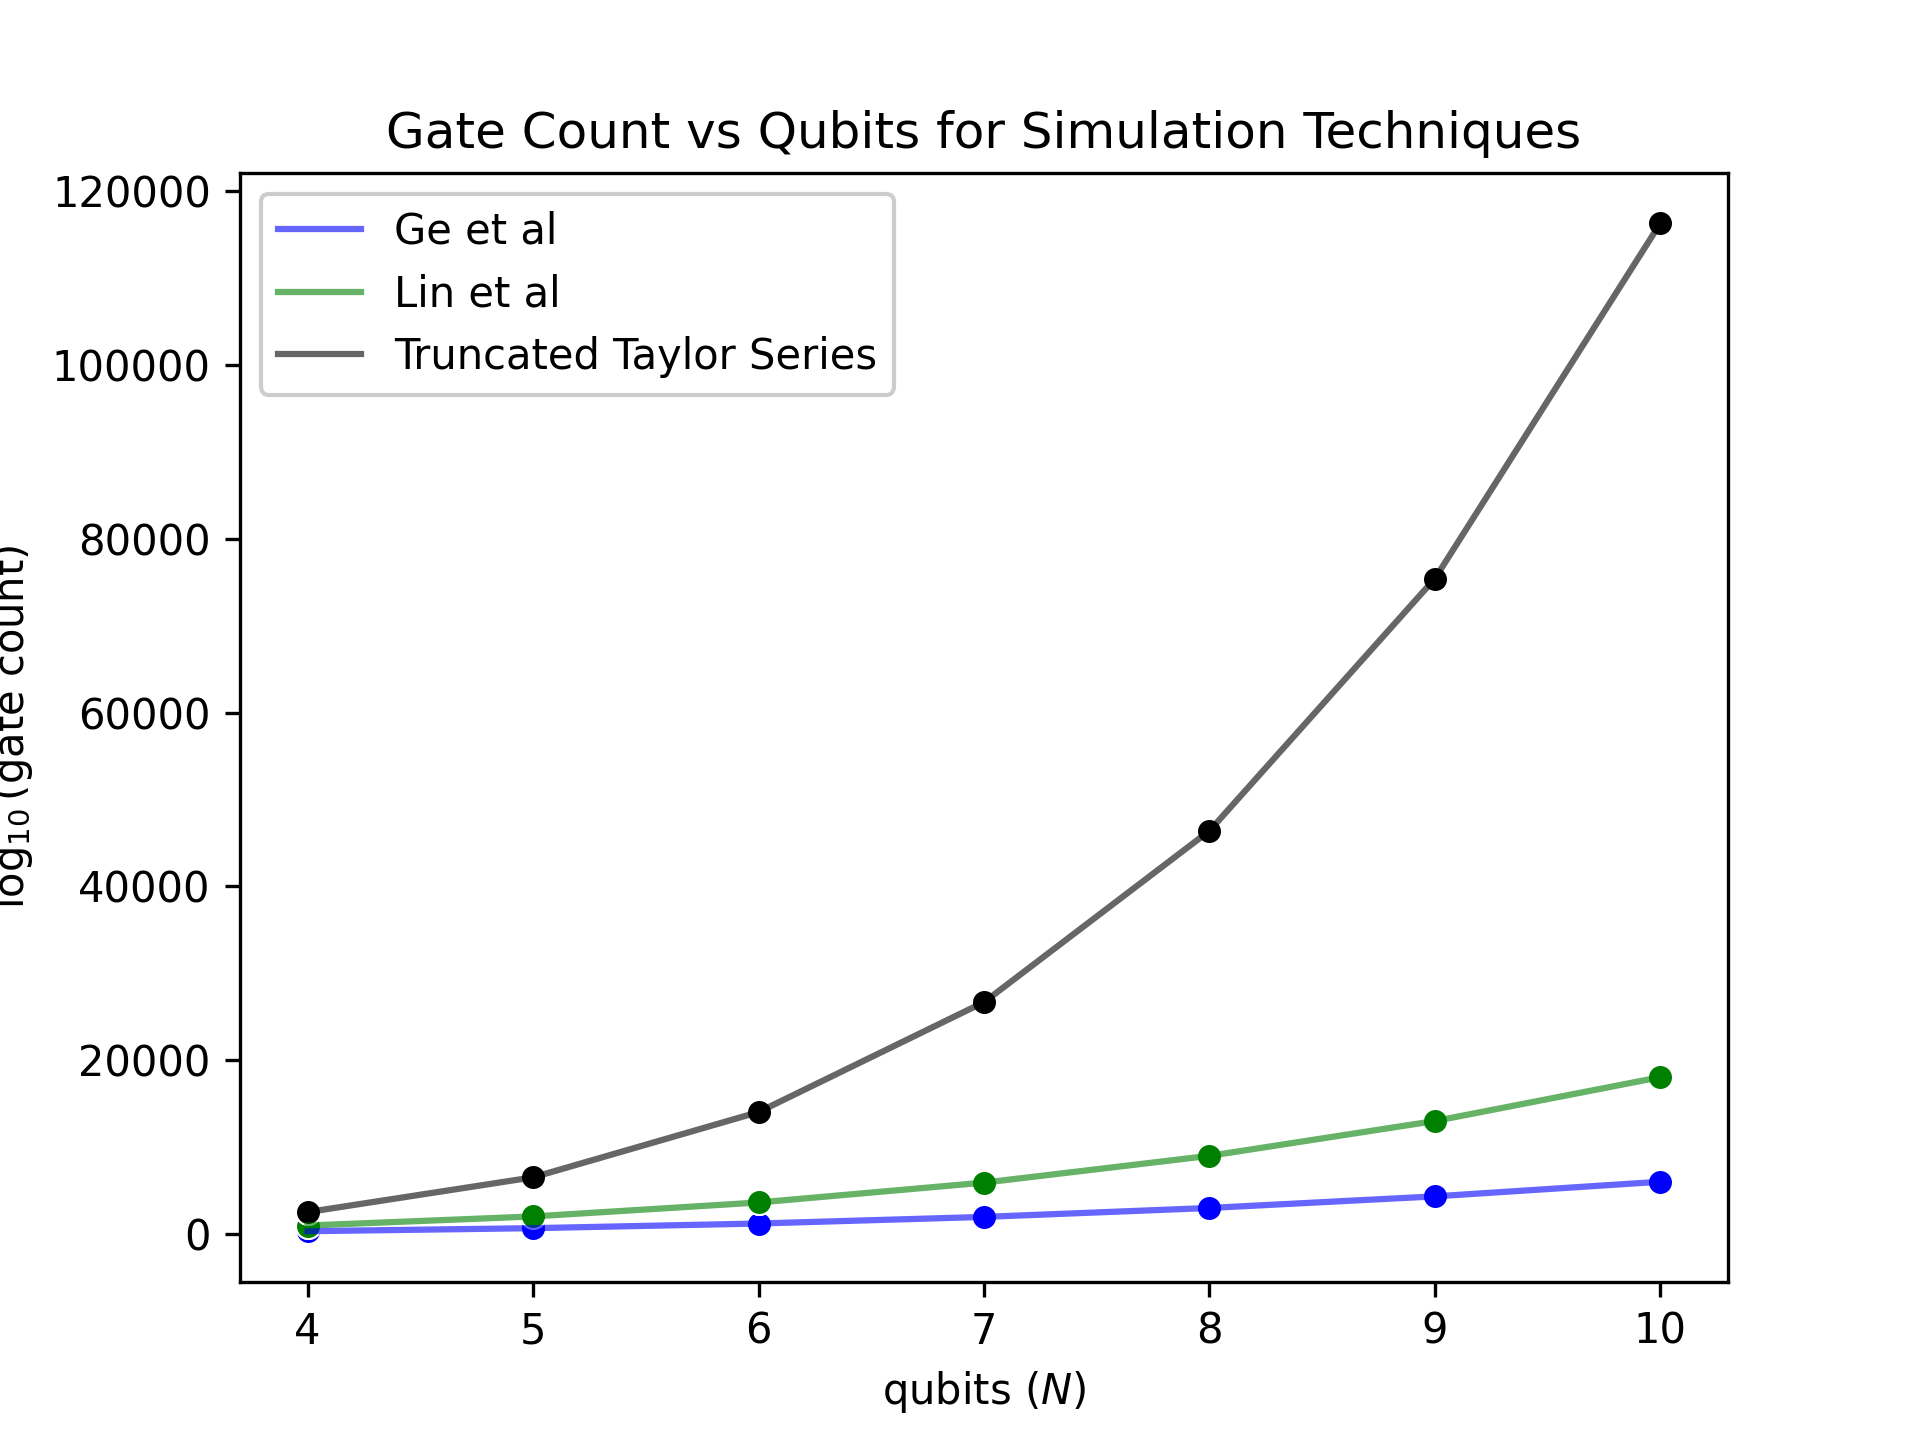
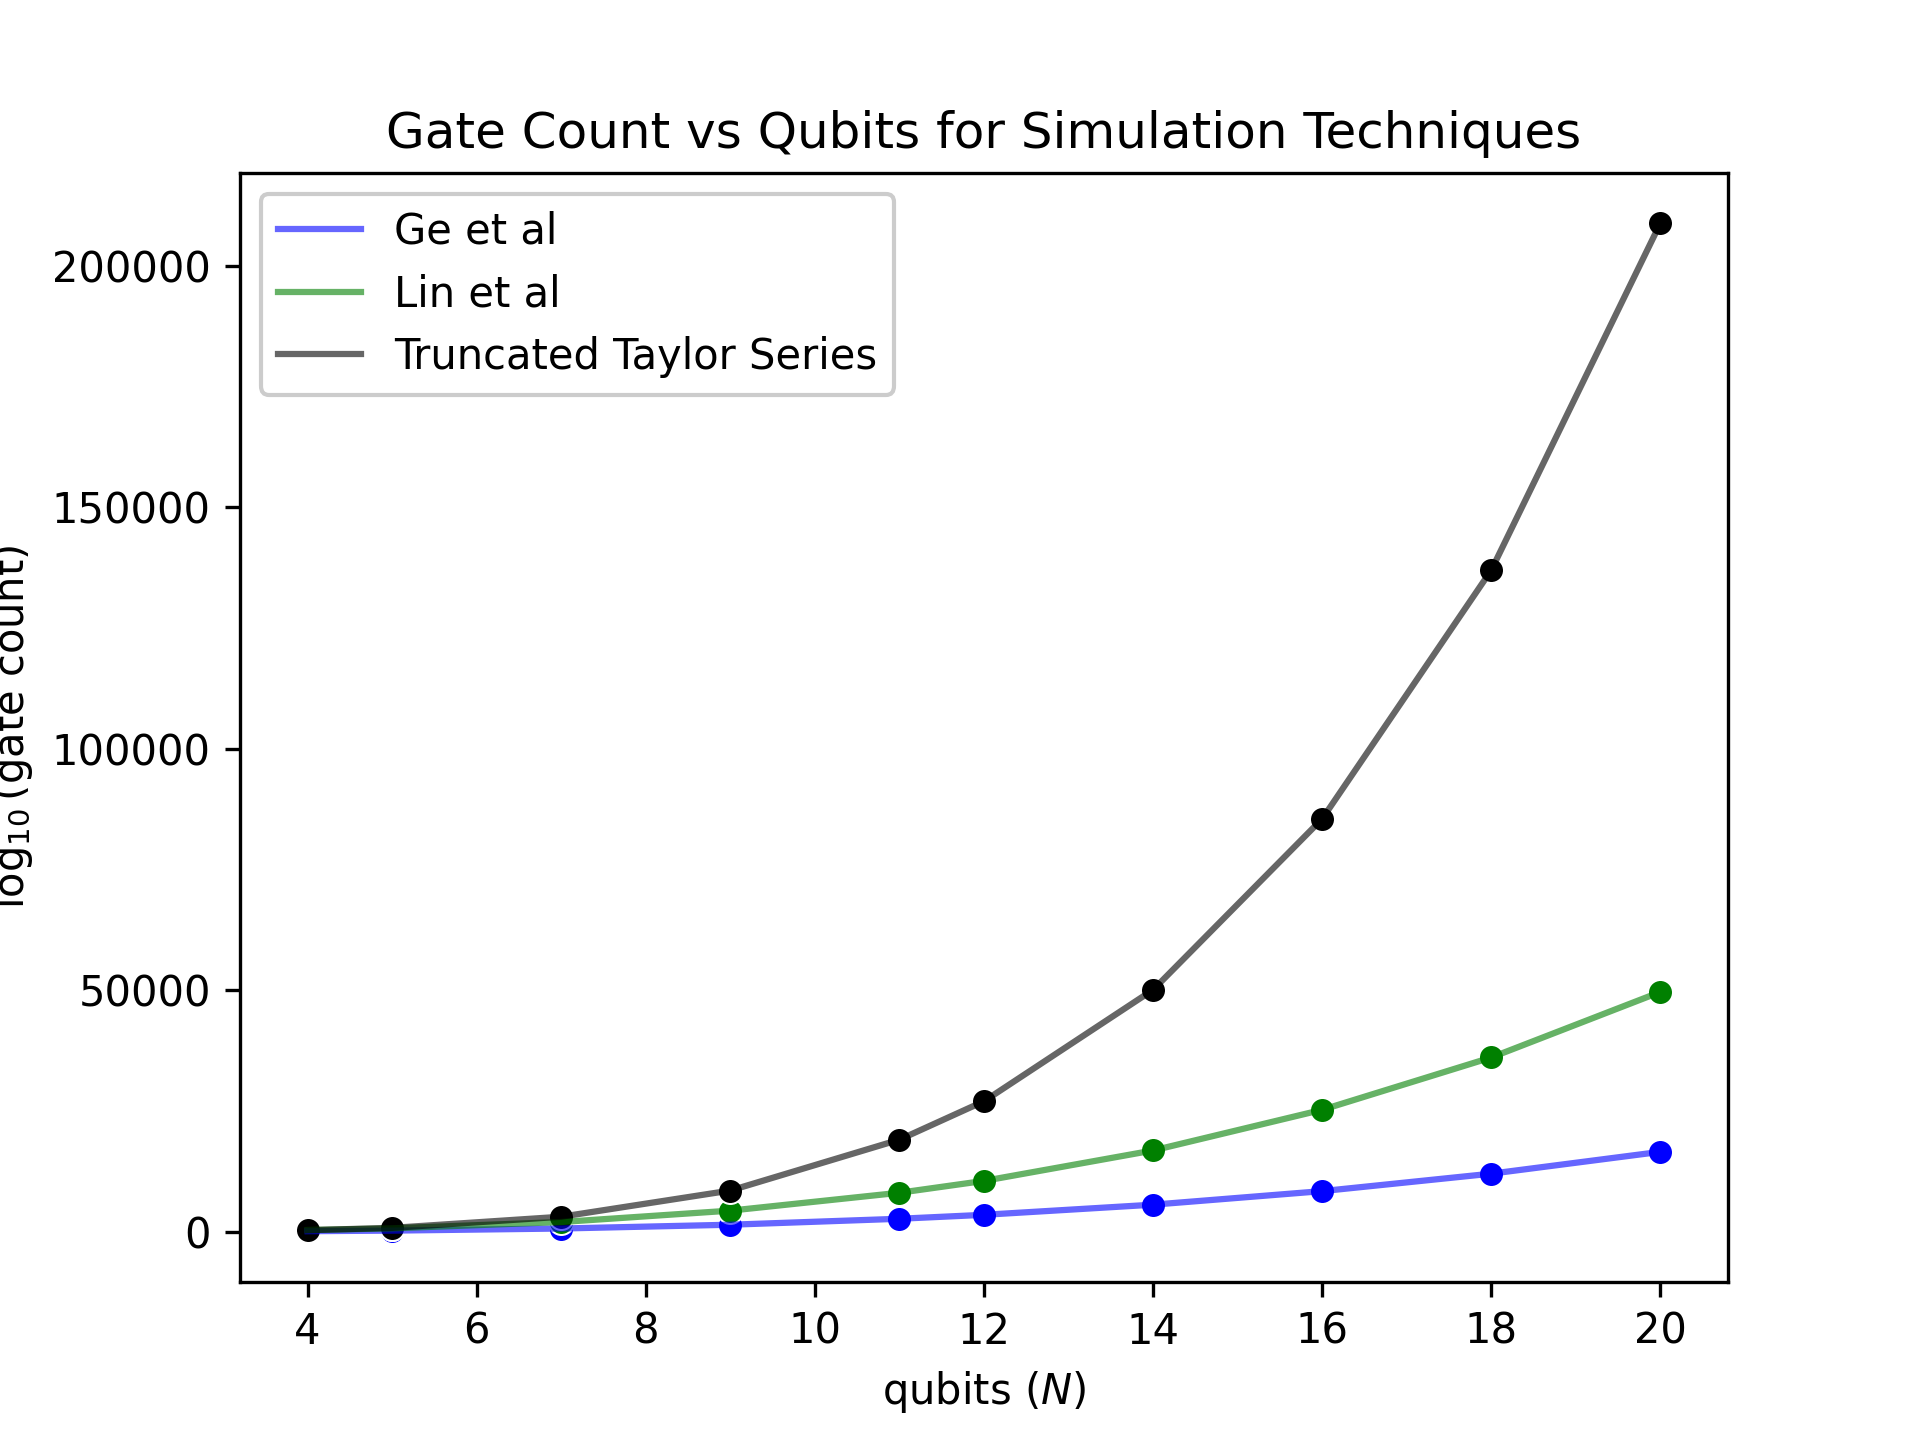
Crashes at 24 qubits

diff --git a/ising/hamiltonian/hamiltonian.py b/ising/hamiltonian/hamiltonian.py
@@ -1,14 +1,13 @@
-from typing import Optional, Callable
+from typing import Optional
 from dataclasses import dataclass
 import numpy as np
 from numpy.typing import NDArray
-
+from scipy.sparse import linalg
 from qiskit.circuit import Parameter
 from qiskit.quantum_info import SparsePauliOp, Pauli
 
 
 def normalized_eigen(matrix: NDArray, normalize: bool) -> tuple[NDArray, NDArray]:
-    print("HERE")
     eig_val, eig_vec = np.linalg.eig(matrix)
     if normalize:
         lam_0 = np.min(eig_val)
@@ -16,11 +15,10 @@ def normalized_eigen(matrix: NDArray, normalize: bool) -> tuple[NDArray, NDArray
 
     return (eig_vec, eig_val)
 
-
 @dataclass
 class Hamiltonian:
     sparse_repr: SparsePauliOp
-    approx_spectral_gap: float = 0
+    _approx_spectral_gap: Optional[float] = None
     normalized: bool = False
     _eig_vec: Optional[NDArray] = None
     _eig_val: Optional[NDArray] = None
@@ -36,6 +34,12 @@ class Hamiltonian:
         if self._map is None:
             self._map = {Pauli(p): v for (p, v) in self.sparse_repr.to_list()}
         return self._map[pauli]
+
+    @property
+    def approx_spectral_gap(self) -> float:
+        if self._approx_spectral_gap is None:
+            self._approx_spectral_gap = sparse_spectral_gap(self)
+        return self._approx_spectral_gap
 
     @property
     def num_qubits(self) -> int:
@@ -115,3 +119,12 @@ class Hamiltonian:
 def substitute_parameter(ham: Hamiltonian, para: Parameter, val: float) -> Hamiltonian:
     new_sparse_repr = ham.sparse_repr.assign_parameters({para: val})
     return Hamiltonian(sparse_repr=new_sparse_repr, normalized=ham.normalized)
+
+def sparse_spectral_gap(ham: Hamiltonian) -> float:
+    """
+    Calculates the spectral gap using the sparse representation of the
+    Hamiltonian.
+    """
+    sparse_mat = ham.sparse_repr.to_matrix(sparse=True)
+    eigval, _ = linalg.eigs(sparse_mat, k=2, which='SR')
+    return abs(eigval[1] - eigval[0])

diff --git a/ising/benchmark/gate_count_modern.py b/ising/benchmark/gate_count_modern.py
@@ -46,6 +46,7 @@ def plot_qubit_gate_count(
         results[method] = []
 
     for qubit in qubit_points:
+        print(f"Running for {qubit}")
         ham = parametrized_ising(qubit, h_val)
         for method, fn in methods.items():
             result = fn(ham, eeta, eps, obs_norm)
@@ -68,7 +69,8 @@ def plot_qubit_gate_count(
     # ax.set_xscale("log")
     # ax.set_yscale("log")
     ax.set_xlabel(r"$\text{qubits }(N)$")
-    ax.set_ylabel(r"$\log_{10}(\text{gate count})$")
+    ax.set_ylabel(r"gate count")
+    # ax.set_ylabel(r"$\log_{10}(\text{gate count})$")
 
     ax.set_title("Gate Count vs Qubits for Simulation Techniques")
 
@@ -81,7 +83,7 @@ def plot_qubit_gate_count(
 
 if __name__ == "__main__":
     h_val = 1
-    start_qubit, end_qubit = 4, 10
+    start_qubit, end_qubit = 4, 30
     point_count = 10
     obs_norm = 1
     eps = 1e-3

diff --git a/tests/hamiltonian/test_sparse.py b/tests/hamiltonian/test_sparse.py
@@ -1,0 +1,12 @@
+import numpy as np
+from ising.hamiltonian import parametrized_ising
+from scipy.sparse import linalg
+class TestIsing:
+    def test_ising(self):
+        h = 0.1
+        for qubits in range(2, 10, 2):
+            ham = parametrized_ising(qubits, h, normalize=False)
+            mat = ham.sparse_repr.to_matrix(sparse=True)
+            eigval, _ = linalg.eigs(mat, k=2, which='SR')
+            spectral_gap = abs(eigval[1] - eigval[0])
+            np.testing.assert_allclose(spectral_gap, ham.spectral_gap, rtol=1e-5)

diff --git a/ising/hamiltonian/ising_one.py b/ising/hamiltonian/ising_one.py
@@ -1,7 +1,7 @@
 from typing import Union
 from qiskit.circuit import Parameter
 from qiskit.quantum_info import SparsePauliOp, Pauli, PauliList
-from .hamiltonian import Hamiltonian
+from .hamiltonian import Hamiltonian, sparse_spectral_gap
 import numpy as np
 
 
@@ -117,5 +117,4 @@ def parametrized_ising(
             zz_terms + x_terms, np.concatenate([zz_coeffs, x_coeffs])
         ),
         normalized=normalize,
-        approx_spectral_gap=1 / qubits,
     )
